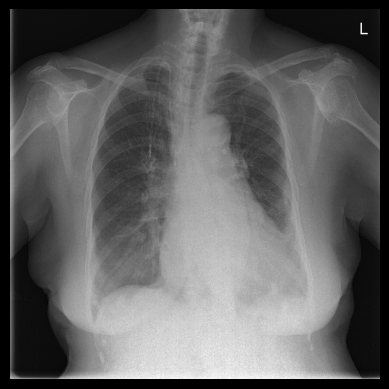
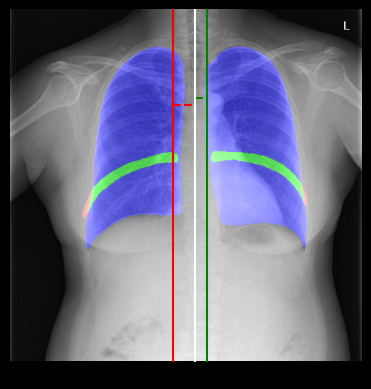
Add demo

diff --git a/README.md b/README.md
@@ -6,12 +6,14 @@ This project provides a GUI for chest X-ray (CXR) inspiration and rotation inspe
 
 The WYVERN application uses deep learning models to analyze chest X-ray images. Through its graphical user interface, you can:
 
-- Select images (.dcm or .png or .jpg) for inspection
-- Click Analyze button to start the process
+- Click "Select Img" to choose images (.dcm or .png or .jpg) for inspection
+- Click "Analyze" button to start the process
 - We detect inspiration by segmenting the lungs and 9th posterior rib and calculate overlap ratio called 'Rib over Lung (ROL)' to determine if the inspiration is sufficient. If it above a certain threshold, we classify it as 'Adequate Inspiration', otherwise 'Inadequate Inspiration'.
 - For rotation, we analyze the x position medial end of clavicles and the spinous process to determine if the patient is rotated. We calculate 'Alpha' which is quantify metric for access symmetry. If the alpha is above a certain threshold, we classify it as 'Rotated', otherwise 'Not Rotated'.
 
 The models in `src/models` are used to perform the image analysis, ensuring accurate and fast inspection. The GUI makes it easy for users to operate without needing to write code.
+
+![alt text](src/logo/demo.png)
 
 ## 🚀 How to Run
 
@@ -22,5 +24,32 @@ The models in `src/models` are used to perform the image analysis, ensuring accu
 	```
 
 2. 🧠 Place the required model files in the `src/models` directory.
+3. 🎉 Run the main application:
 
-Once the dependencies and models are in place, you can launch the GUI for CXR inspiration and rotation inspection! 🎉
+    ```bash
+    python main.py
+    ```
+
+## 📂 Directory Structure
+```WYVERN/
+├── README.md
+├── requirements.txt
+├── main.py                                 # main application file for the GUI (runs the application)
+├── src/
+│   ├── logo/
+|   |   ├── Logo.png
+|   |   ├── icon.png
+|   |   ├── icon.ico
+|   │   └── demo.png
+│   └── models/
+│       ├── lung_segmentation_model.pth     # pre-trained model for lung segmentation
+│       ├── rib_segmentation_model.pth      # pre-trained model for rib segmentation
+│       └── rotation_model.pth              # pre-trained model for rotation detection
+├── result/
+|   └── result.png                          # result image will be saved here
+└── example_images/                         # example images for testing
+    ├── EX166/                              # DICOM images
+    ├── artifact/                           # images with artifacts
+    ├── not full/                           # images with inadequate inspiration
+    └── full/                               # images with adequate inspiration
+```
